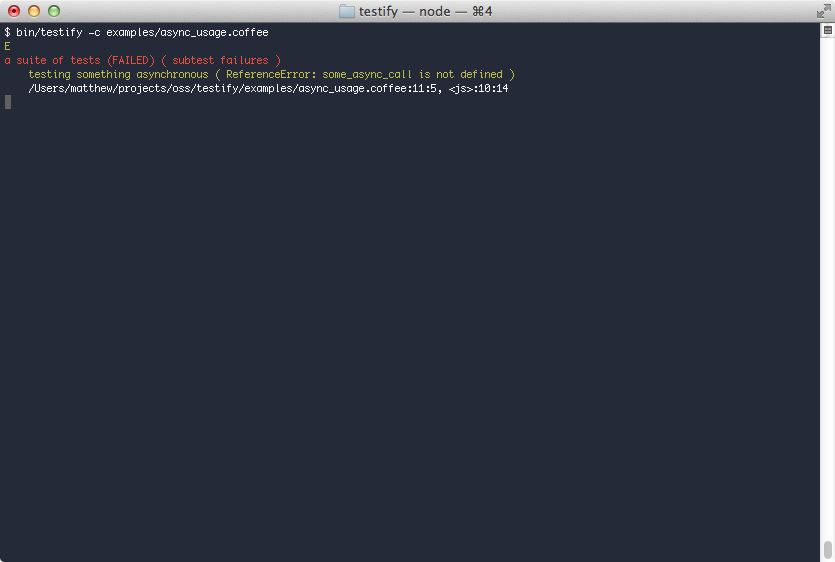
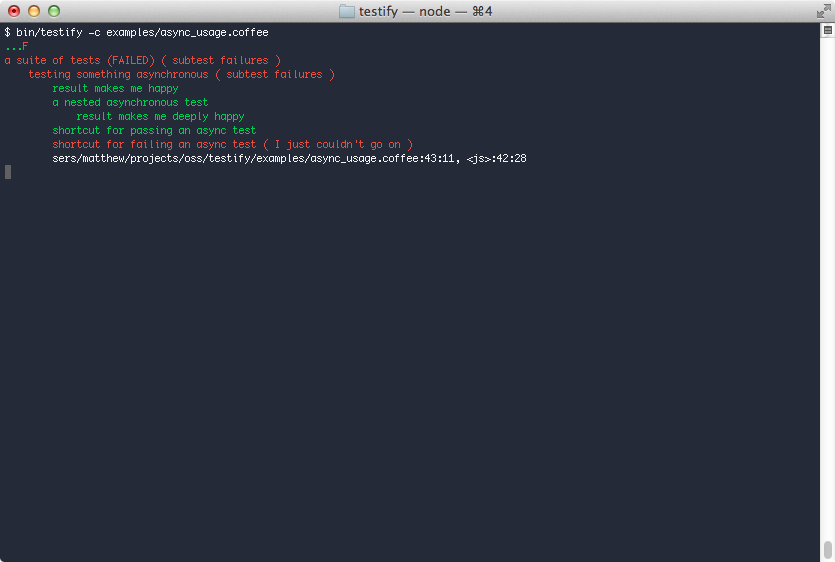
fixed crappy async example

diff --git a/README.md b/README.md
@@ -34,6 +34,14 @@ Output:
 
 ```.coffee
 
+some_async_call = (callback) ->
+  process.nextTick ->
+    callback null, "pie"
+
+another_async_call = (input, callback) ->
+  process.nextTick ->
+    callback null, ["bacon", "cheese", "pie"]
+
 Testify.test "a suite of tests", (context) ->
 
   # When you need to test the results of an asynchronous function,
@@ -65,7 +73,7 @@ Testify.test "a suite of tests", (context) ->
 
       context.test "shortcut for failing an async test", (context) ->
         process.nextTick ->
-          context.fail()
+          context.fail("I just couldn't go on")
 
 ```
 
